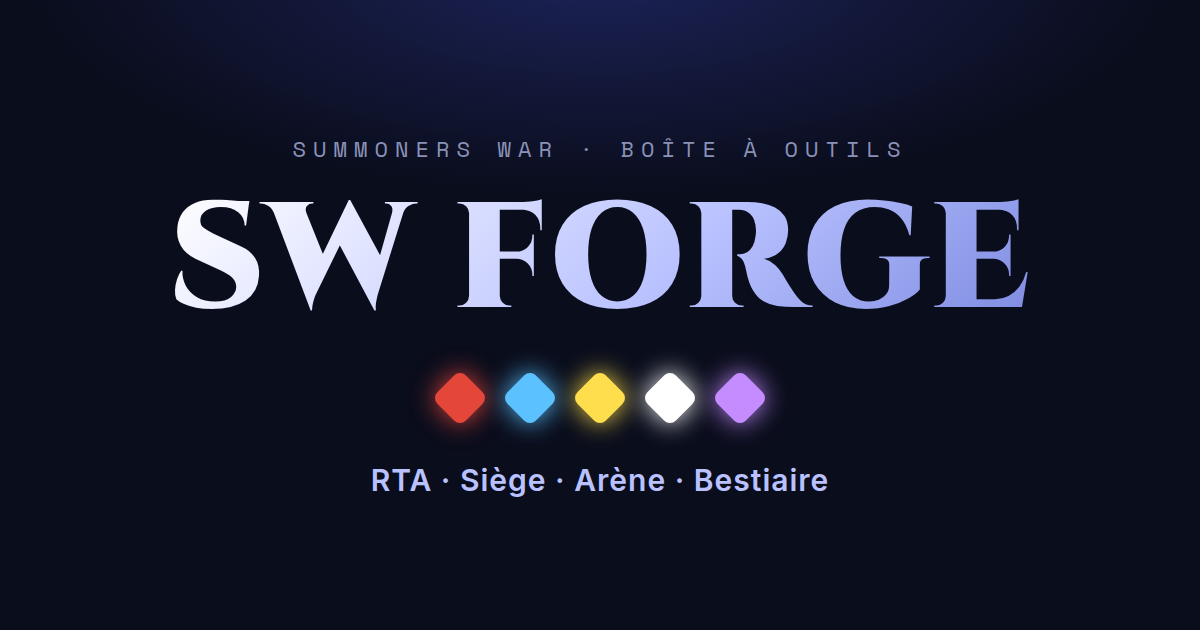
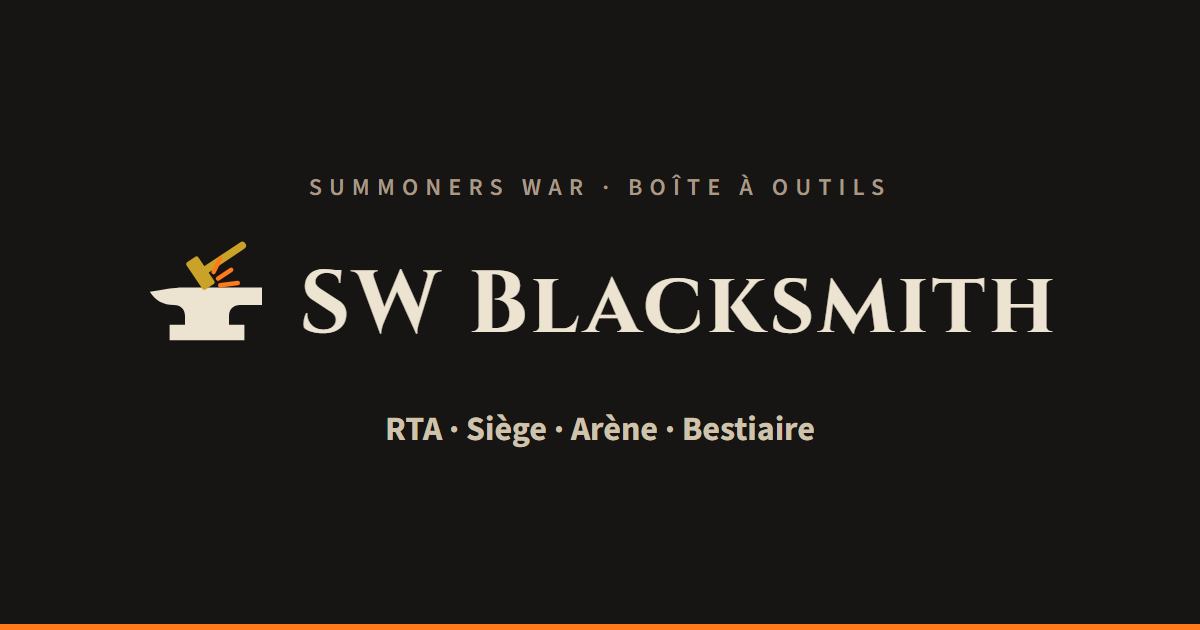
feat(marque): rebranding R2 — l'image de partage « SW Blacksmith »
Décision 16. Thomas l'accepte (« continues », en réponse à « l'image de
partage te va ? »).

L'image est rendue par Playwright depuis les tracés de la charte : fond
Forge, surtitre « Summoners War · Boîte à outils », logo horizontal,
« RTA · Siège · Arène · Bestiaire », filet de braise. Même contenu que
l'ancienne. public/og-image.png est permis et nommé dans la section R2.

Le R2 est validé dans le cadrage.

Changed region(s): [[0.1233, 0.0, 0.8942, 0.5429], [0.0, 0.9651, 1.0, 1.0], [0.3083, 0.573, 0.7092, 0.7841]]

diff --git a/spec/chantiers/rebranding-blacksmith.md b/spec/chantiers/rebranding-blacksmith.md
@@ -100,7 +100,7 @@ R4 → R5 … R9 (un écran se refait sur la coquille finale)
 | --- | --- | --- | --- |
 | R0 relevé : jetons de la toile ↔ jetons de l'app, écarts, questions | C | fait — sept questions posées | 2026-09-28, [lot-R0.md](rebranding-preuves/lot-R0.md) |
 | R1 jetons : deux thèmes, police de texte, arrondis | J | **validé par Thomas** (« continues », après les décisions 11 à 13) | 2026-09-29, [lot-R1.md](rebranding-preuves/lot-R1.md) |
-| R2 nom et logo | J | fait — image de partage et relecture de Thomas en attente | 2026-09-29, [lot-R2.md](rebranding-preuves/lot-R2.md) |
+| R2 nom et logo | J | **validé par Thomas** (« continues », image de partage comprise) | 2026-09-29, [lot-R2.md](rebranding-preuves/lot-R2.md) |
 | R3 `src/ui/` aux planches « Composants » | J | à faire | |
 | R4 coquille : barre latérale, barre du haut, icônes de nav (décision 9) | J | à faire | |
 | R5 Accueil (bureau et téléphone) | J | à faire | |

diff --git a/spec/chantiers/rebranding-preuves/lot-R2.md b/spec/chantiers/rebranding-preuves/lot-R2.md
@@ -100,7 +100,8 @@ Rendue par Playwright (`r2-images.mjs`) : fond Forge, surtitre « Summoners War
 · Boîte à outils », logo horizontal de la charte (symbole et « SW Blacksmith »
 en Cinzel 700), « RTA · Siège · Arène · Bestiaire », filet de braise en pied.
 Même contenu que l'ancienne, sans les losanges d'élément violets. **Commitée à
-part, après l'accord de Thomas.**
+part, après l'accord de Thomas** (« continues », 2026-09-29, en réponse à
+« l'image de partage te va ? »).
 
 ## 5. Vérifications
 
